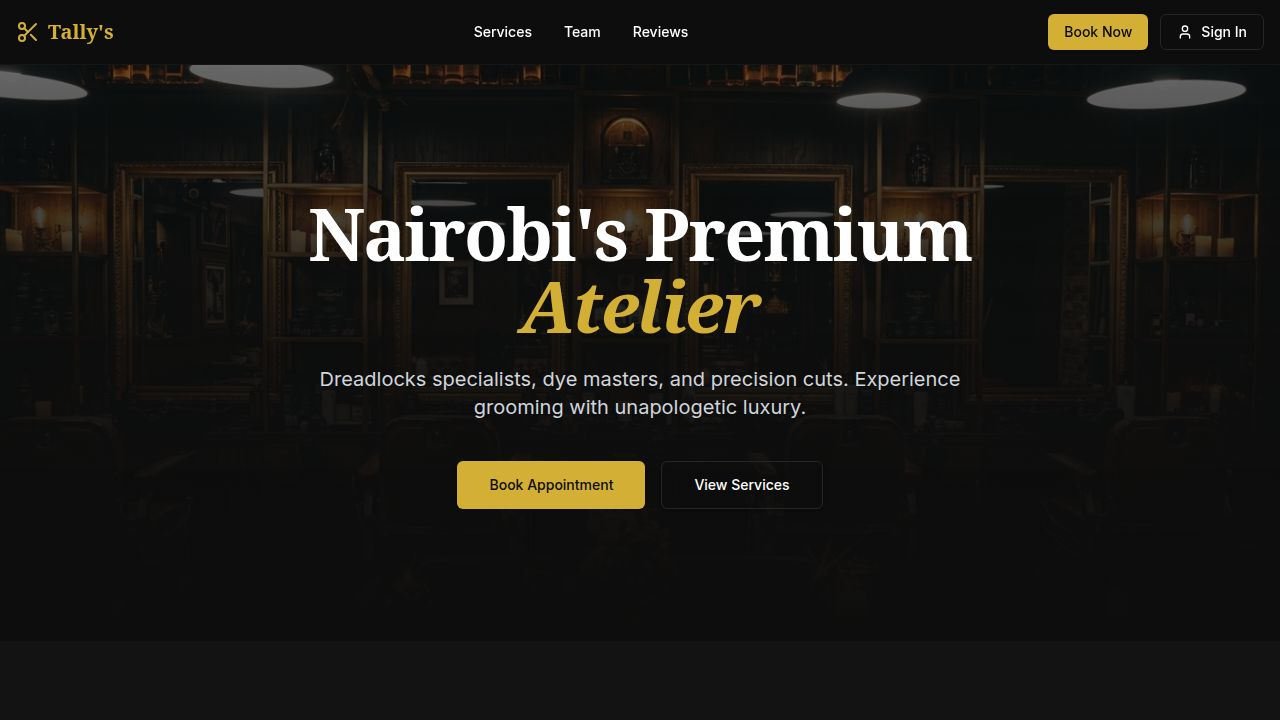
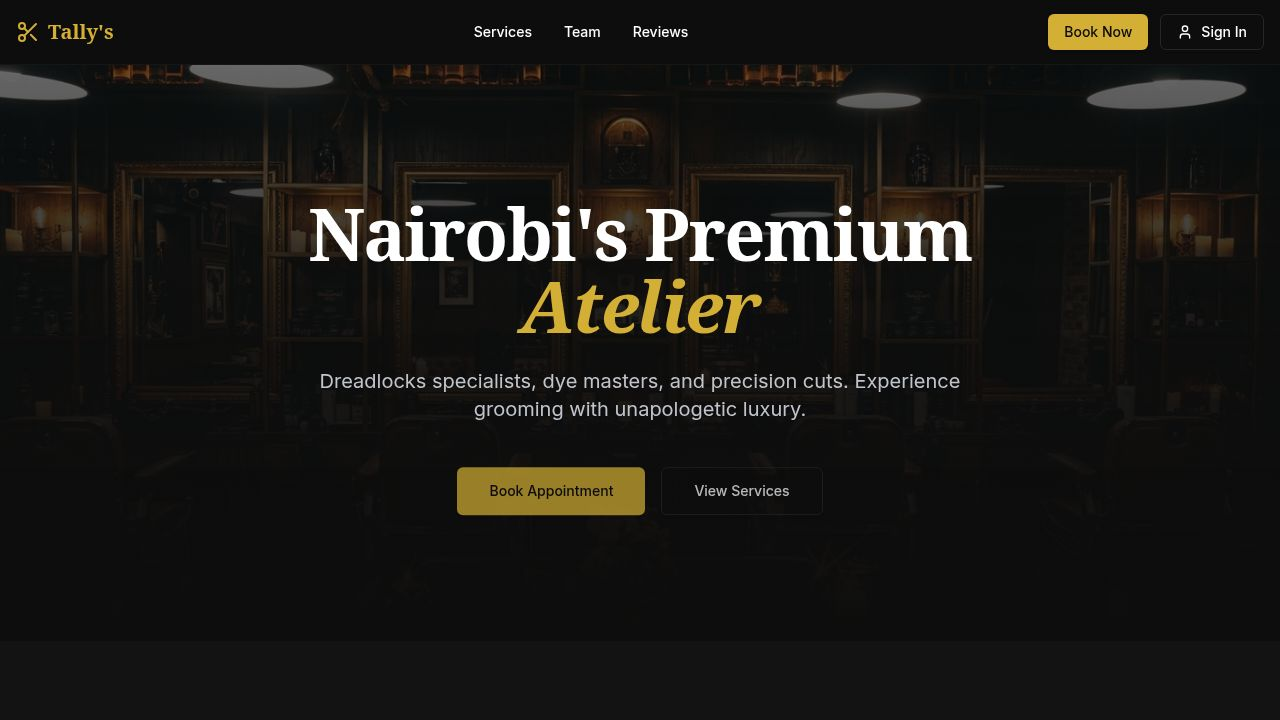
Update website to correctly send verification and password reset emails
Correctly configure API and client URLs for email verification and password reset links. Fix Express CORS wildcard issue.

Replit-Commit-Author: Agent
Replit-Commit-Session-Id: 9995f47a-02fe-4428-9399-dafb4caf5622
Replit-Commit-Checkpoint-Type: full_checkpoint
Replit-Commit-Event-Id: e7b4df09-3d46-464e-9719-0c751deffd43
Replit-Commit-Screenshot-Url: https://storage.googleapis.com/screenshot-production-us-central1/762a3a91-f4c7-42b1-bac8-b382852e8134/9995f47a-02fe-4428-9399-dafb4caf5622/cEG9SYm
Replit-Helium-Checkpoint-Created: true

Changed region(s): [[0.25, 0.5194, 0.75, 0.5806], [0.3438, 0.6417, 0.625, 0.7333]]

diff --git a/artifacts/api-server/src/routes/auth.ts b/artifacts/api-server/src/routes/auth.ts
@@ -9,7 +9,10 @@ import { sendVerificationEmail, sendPasswordResetEmail } from "../lib/email";
 
 const router = Router();
 
-const APP_URL = process.env.APP_URL ?? "http://localhost:3000";
+// CLIENT_URL = the frontend (Vercel / browser-facing domain)
+// API_URL    = this Express server's own public URL (used in email links that call /api/*)
+const CLIENT_URL = process.env.CLIENT_URL ?? process.env.APP_URL ?? "http://localhost:3000";
+const API_URL = process.env.API_URL ?? `http://localhost:${process.env.PORT ?? 8080}`;
 
 function generateToken() {
   return crypto.randomBytes(32).toString("hex");
@@ -59,7 +62,7 @@ router.post("/auth/register", authLimiter, async (req, res) => {
     }).returning();
 
     // Send verification email (non-blocking)
-    const verificationUrl = `${APP_URL}/api/auth/verify-email?token=${verificationToken}`;
+    const verificationUrl = `${API_URL}/api/auth/verify-email?token=${verificationToken}`;
     sendVerificationEmail(emailLower, { name: customer.name, verificationUrl }).catch(() => {});
 
     req.session.userId = user.id;
@@ -174,7 +177,7 @@ router.get("/auth/verify-email", async (req, res) => {
       .where(eq(usersTable.emailVerificationToken, token)).limit(1);
 
     if (!user || !user.emailVerificationExpires || user.emailVerificationExpires < new Date()) {
-      res.redirect(`${APP_URL}/login?verified=expired`);
+      res.redirect(`${CLIENT_URL}/login?verified=expired`);
       return;
     }
 
@@ -184,7 +187,7 @@ router.get("/auth/verify-email", async (req, res) => {
       emailVerificationExpires: null,
     }).where(eq(usersTable.id, user.id));
 
-    res.redirect(`${APP_URL}/login?verified=success`);
+    res.redirect(`${CLIENT_URL}/login?verified=success`);
   } catch (err) {
     req.log.error(err, "verify-email error");
     res.status(500).json({ error: "Verification failed" });
@@ -210,7 +213,7 @@ router.post("/auth/resend-verification", authLimiter, async (req, res) => {
       ? await db.select().from(customersTable).where(eq(customersTable.id, user.customerId)).limit(1)
       : [null];
 
-    const verificationUrl = `${APP_URL}/api/auth/verify-email?token=${verificationToken}`;
+    const verificationUrl = `${API_URL}/api/auth/verify-email?token=${verificationToken}`;
     await sendVerificationEmail(user.email, { name: customer?.name ?? user.email, verificationUrl });
 
     res.json({ ok: true });
@@ -237,7 +240,7 @@ router.post("/auth/forgot-password", passwordResetLimiter, async (req, res) => {
         ? await db.select().from(customersTable).where(eq(customersTable.id, user.customerId)).limit(1)
         : [null];
 
-      const resetUrl = `${APP_URL}/reset-password?token=${resetToken}`;
+      const resetUrl = `${CLIENT_URL}/reset-password?token=${resetToken}`;
       sendPasswordResetEmail(user.email, { name: customer?.name ?? user.email, resetUrl }).catch(() => {});
     }
     res.json({ ok: true, message: "If an account with that email exists, a reset link has been sent." });

diff --git a/artifacts/api-server/src/app.ts b/artifacts/api-server/src/app.ts
@@ -38,7 +38,7 @@ const corsOptions: cors.CorsOptions = {
   exposedHeaders: ["Set-Cookie"],
 };
 
-app.options("*", cors(corsOptions));
+app.options(/(.*)/u, cors(corsOptions));
 app.use(cors(corsOptions));
 app.use(express.json());
 app.use(express.urlencoded({ extended: true }));